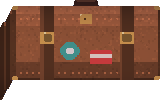
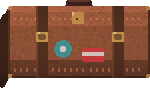
art(1.4): halve the briefcase's depth again
The briefcase now stands 7 cm from wall to front. The right-hand rack is
shallower to match, 6 cm against the left one's 13, so the briefcase still
stands just past its front rail and nothing of the rack crosses it. Rack depth
and luggage depth are now per side.

diff --git a/src/scene/geometry.gen.ts b/src/scene/geometry.gen.ts
@@ -29,6 +29,6 @@ export const OBJECTS: Record<string, ObjectGeometry> = {
   cover: { zone: [142, 116, 338, 272], light: { x: 240, y: 194, rx: 108, ry: 84 } },
   projects: { zone: [137, 279, 252, 376], light: { x: 195, y: 328, rx: 62, ry: 52 }, box: { x: 148, y: 288, w: 94, h: 81 }, sprite: '/assets/obj-projects.webp' },
   about: { zone: [306, 336, 358, 370], light: { x: 332, y: 353, rx: 30, ry: 20 }, box: { x: 316, y: 344, w: 33, h: 18 }, sprite: '/assets/obj-about.webp' },
-  stack: { zone: [321.7204, 30.4446, 416.3441, 88.5091], light: { x: 369.0323, y: 61.6274, rx: 51.6129, ry: 30.1075 }, box: { x: 326, y: 40, w: 80, h: 50 }, sprite: '/assets/obj-stack.webp' },
+  stack: { zone: [318.7565, 36.95, 409.9482, 92.9085], light: { x: 364.3523, y: 67.0018, rx: 49.7409, ry: 29.0155 }, box: { x: 325, y: 46, w: 75, h: 44 }, sprite: '/assets/obj-stack.webp' },
   journey: { zone: [166, 60, 300, 94], light: { x: 240, y: 77, rx: 78, ry: 18 }, box: { x: 173, y: 67, w: 134, h: 20 }, sprite: '/assets/obj-journey.webp' },
 };

diff --git a/tools/art/room.py b/tools/art/room.py
@@ -73,9 +73,9 @@ ROOM_HALF_WIDTH = 1.2  # the window wall runs 2.4 m between the side walls
 ROOM_CEILING = 2.30
 # The luggage racks: one over each bench end, either side of the line display
 # above the window. Shallow enough to reach from the seat below.
-RACK_DEPTH = 0.13
+RACK_DEPTH = {-1: 0.13, 1: 0.06}  # left rack, right rack: the right one only holds the briefcase, upright
 RACK_INNER = 0.46  # each rack runs from here to the side wall
-LUGGAGE_Z = WALL_DIST - RACK_DEPTH - 0.01  # the luggage's front: it overhangs the front rail a little
+LUGGAGE_Z = {s: WALL_DIST - d - 0.01 for s, d in RACK_DEPTH.items()}  # the luggage's front on each rack: just past its rail
 LUGGAGE_FLAT = 1.0  # height of the luggage relative to how it was written; 1 is unchanged
 
 
@@ -124,7 +124,7 @@ def geometry(masks):
         x0, y0, x1, y1 = masks[key].getbbox()
         # an object on the rack stands nearer than the wall it was written on:
         # its zone and light scale about the vanishing point with it
-        k = WALL_DIST / LUGGAGE_Z if o.get('on_rack') else 1.0
+        k = WALL_DIST / LUGGAGE_Z[1] if o.get('on_rack') else 1.0
         vx, vy = vanishing_point()
         sx, sy = (lambda v: vx + (v - vx) * k), (lambda v: vy + (v - vy) * k)
         objects[key] = dict(
@@ -454,14 +454,16 @@ def rack(g, rnd):
     # rack's level. From below, its underside shows between its front and the wall.
     # It is also flattened: bags laid on a rack are lower than they are wide.
     D = WALL_DIST
-    lug = g.flatten(LUGGAGE_FLAT, 92).at(0, -3).depth(LUGGAGE_Z)
-    bx, rl, um = lug.at(24, 0), lug.at(22, 0), lug.at(2, 0)
+    lug = g.flatten(LUGGAGE_FLAT, 92).at(0, -3).depth(LUGGAGE_Z[-1])
+    bx, rl = lug.at(24, 0), lug.at(22, 0)
+    um = g.flatten(LUGGAGE_FLAT, 92).at(2, -3).depth(LUGGAGE_Z[1])
     # x0, x1, height as written, colour, silhouette tag
     pieces = ((28, 52, 6, (226, 222, 210), None), (52, 88, 20, (176, 138, 98), None), (96, 151, 24, (60, 140, 138), None),
               (326, 394, 34, (150, 96, 62), 'stack'), (400, 448, 4, (44, 50, 84), None))
     for x0, x1, h, c, tag in pieces:
         xa, xb = (x0 - 240) / WALL_SCALE, (x1 - 240) / WALL_SCALE
-        quad(g, [(xa, RACK_Y, D), (xb, RACK_Y, D), (xb, RACK_Y, LUGGAGE_Z), (xa, RACK_Y, LUGGAGE_Z)], mul(c, 0.34))
+        zl = LUGGAGE_Z[-1 if x1 < 240 else 1]
+        quad(g, [(xa, RACK_Y, D), (xb, RACK_Y, D), (xb, RACK_Y, zl), (xa, RACK_Y, zl)], mul(c, 0.34))
     # the racks go in before the luggage's visible faces: the luggage overhangs
     # the front rail, so nothing of the rack crosses it, and an object's sprite
     # is the object alone
@@ -472,14 +474,15 @@ def rack(g, rnd):
     # carried round from the front
     for x0, x1, h, c, tag in pieces:
         xs = (x1 if x1 < 240 else x0)
+        zl = LUGGAGE_Z[-1 if x1 < 240 else 1]
         X, top = (xs - 240) / WALL_SCALE, RACK_Y + h * LUGGAGE_FLAT / WALL_SCALE
         t = g.at(0, 0, tag) if tag else g
-        quad(t, [(X, RACK_Y, D), (X, top, D), (X, top, LUGGAGE_Z), (X, RACK_Y, LUGGAGE_Z)], mul(c, 0.6))
-        t.line([ri(P(X, top, D)), ri(P(X, top, LUGGAGE_Z))], mul(c, 0.95))
-        t.line([ri(P(X, RACK_Y + 0.004, D)), ri(P(X, RACK_Y + 0.004, LUGGAGE_Z))], mul(c, 0.4))
+        quad(t, [(X, RACK_Y, D), (X, top, D), (X, top, zl), (X, RACK_Y, zl)], mul(c, 0.6))
+        t.line([ri(P(X, top, D)), ri(P(X, top, zl))], mul(c, 0.95))
+        t.line([ri(P(X, RACK_Y + 0.004, D)), ri(P(X, RACK_Y + 0.004, zl))], mul(c, 0.4))
         if h >= 20:
             for f in (0.3, 0.7):
-                z = LUGGAGE_Z + (D - LUGGAGE_Z) * f
+                z = zl + (D - zl) * f
                 quad(t, [(X, RACK_Y, z), (X, top, z), (X, top, z + 0.025), (X, RACK_Y, z + 0.025)], mul(c, 0.42))
     # cardboard box
     bx.rect(28, 72, 36, 20, (176, 138, 98))
@@ -513,7 +516,7 @@ def rack(g, rnd):
     lug.rect(147, 80, 3, 1, (150, 60, 60))
     lug.px(148, 77, (40, 40, 56))
     # briefcase (the stack object)
-    o = place(g.flatten(LUGGAGE_FLAT, 92).depth(LUGGAGE_Z), 'stack', (318, 55))
+    o = place(g.flatten(LUGGAGE_FLAT, 92).depth(LUGGAGE_Z[1]), 'stack', (318, 55))
     lb = (150, 96, 62)
     o.rect(318, 58, 68, 34, lb)
     o.rect(318, 58, 68, 3, mul(lb, 1.3))
@@ -556,7 +559,7 @@ def rack_frame(g, s):
     front rail with a lip that the luggage stands behind, and a bracket at each
     end. s = -1 for the left-hand rack, +1 for the right."""
     HW, D = ROOM_HALF_WIDTH, WALL_DIST
-    zf = D - RACK_DEPTH
+    zf = D - RACK_DEPTH[s]
     dark, mid, lite = (64, 72, 106), STEEL, (176, 186, 214)
     at = lambda x, z, y=RACK_Y: ri(P(s * x, y, z))
     # slats, and the wire that ties them halfway out
